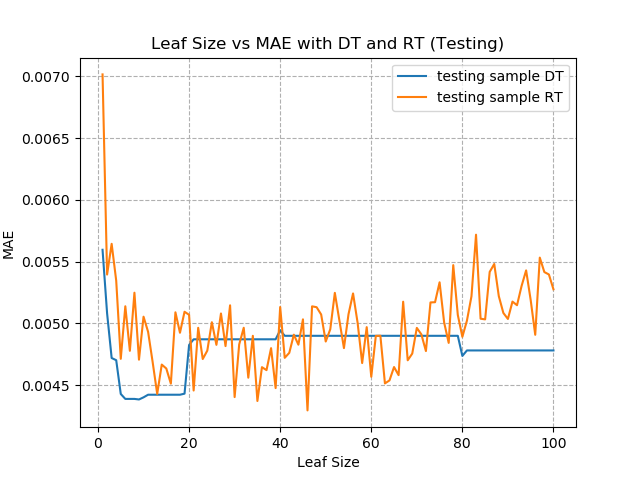
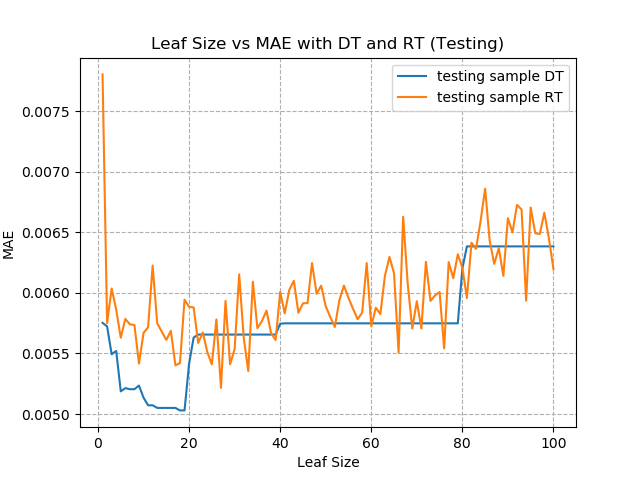
Project 3: randomizing initial dataset and random graphs created

diff --git a/assess_learners/testlearner.py b/assess_learners/testlearner.py
@@ -303,6 +303,8 @@ if __name__ == "__main__":
     if sys.argv[1] == "Data/Istanbul.csv":
         data = data[1:, 1:]
     data = data.astype('float')
+    np.random.seed(903376324)  # this is my GTID
+    np.random.shuffle(data)  # shuffles whole dataset
 
     # compute how much of the data is training and testing  		  	   		  		 			  		 			 	 	 		 		 	
     train_rows = int(0.6 * data.shape[0])
@@ -313,7 +315,7 @@ if __name__ == "__main__":
     train_y = data[:train_rows, -1]
     test_x = data[train_rows:, 0:-1]
     test_y = data[train_rows:, -1]
-    # section above this comment within main() came with the project
+    # most of the section above this comment within main() came with the project
 
     experiment1(train_x, train_y, test_x, test_y)
     experiment2(train_x, train_y, test_x, test_y)

diff --git a/assess_learners/BagLearner.py b/assess_learners/BagLearner.py
@@ -18,7 +18,6 @@ class BagLearner(object):
         return 'jpb6'
 
     def add_evidence(self, data_x, data_y):
-
         for l in self.learner_list:
             i = np.random.choice(range(data_x.shape[0]), data_x.shape[0], replace=True)
             x = data_x[i]
